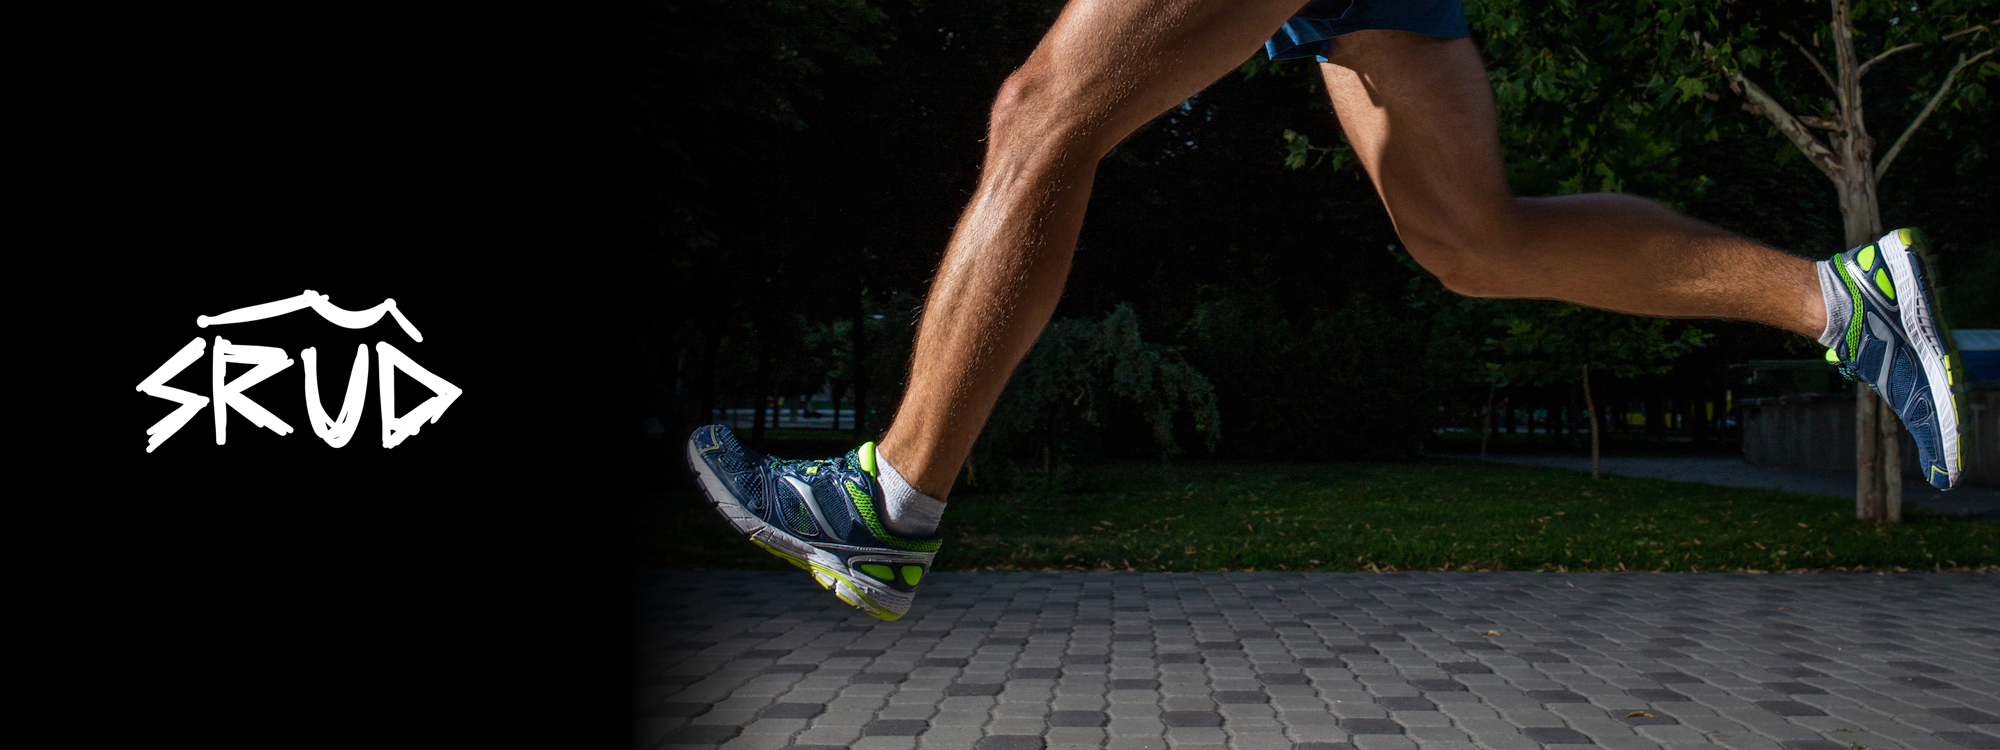
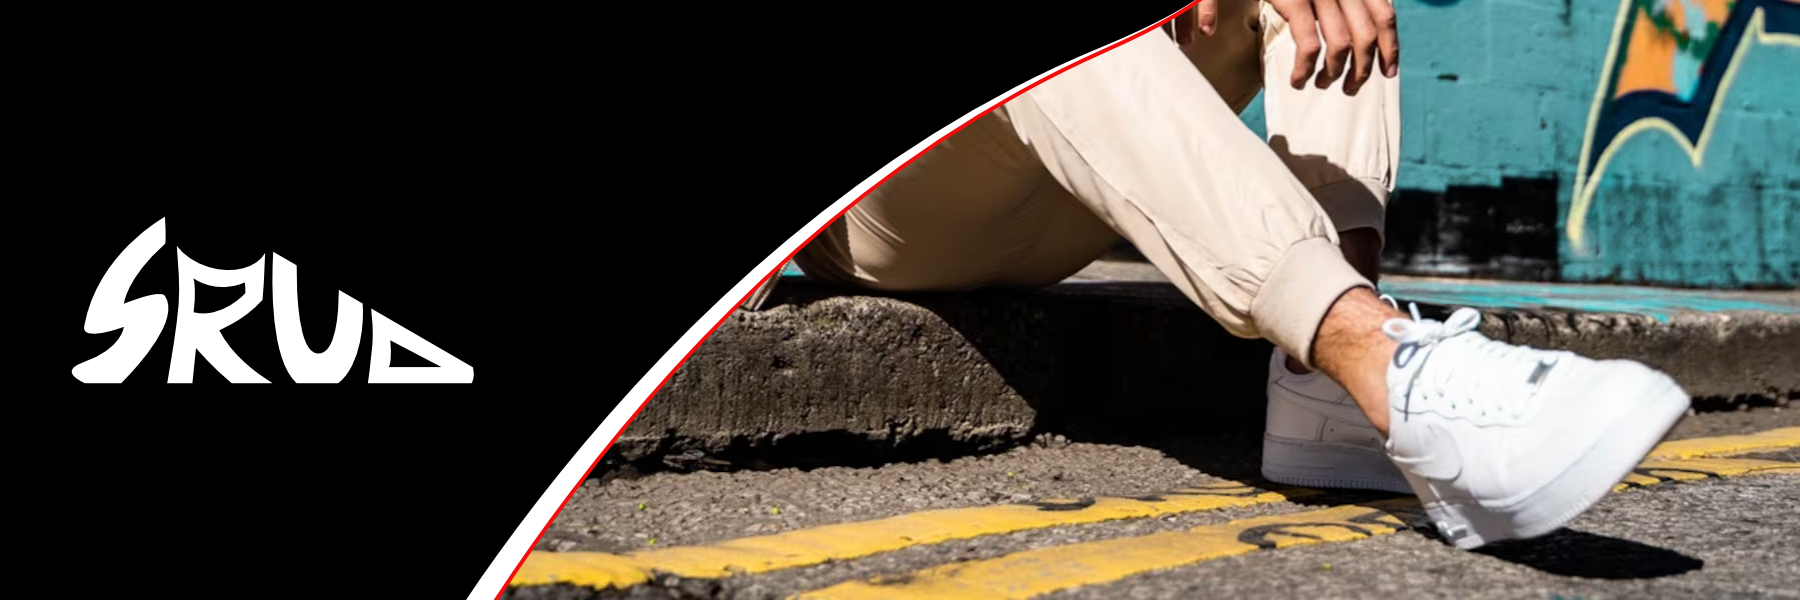
v2

diff --git a/src/components/Encabezado.vue b/src/components/Encabezado.vue
@@ -9,13 +9,15 @@ const pageData = computed(() => {
     case '/inventario':
       return {
         titulo: 'Inventory',
-        gif: '/bannerinventario.png' 
+        gif: '/bannerinventario.png',
+        logotitulo: '/logoinventory.svg'
       };
     case '/':
     default:
       return {
         titulo: 'Home - Shoe Catalog',
-        gif: '/bannerhome.png'
+        gif: '/bannerhome.png',
+        logotitulo: '/logocatalog.svg'
       };
 
   }
@@ -34,7 +36,7 @@ const pageData = computed(() => {
 
     <div class="banner" :style="{ backgroundImage: `url(${pageData.gif})` }">
       <div class="overlay">
-        <h1 style="margin-left: 20px;">{{ pageData.titulo }}</h1>
+        <img :src="pageData.logotitulo"  :alt="pageData.titulo" class="header-svg-titulo" style="color: aliceblue; height: 100px; margin-left: 85%; transition: all 0.2s ease-in-out;">
       </div>
     </div>
   </header>
@@ -109,7 +111,10 @@ const pageData = computed(() => {
   align-items:end;
   justify-content:last baseline;
 }
-
+.header-svg-titulo:hover{
+  transform: scale(1.05);
+  fill: red;
+}
 
 
 </style>